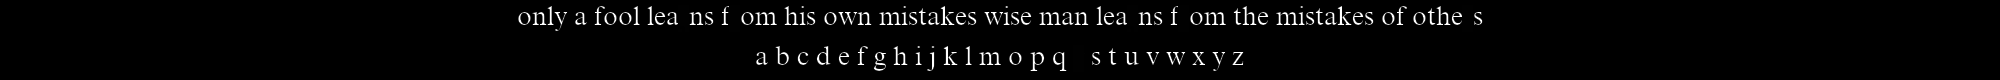
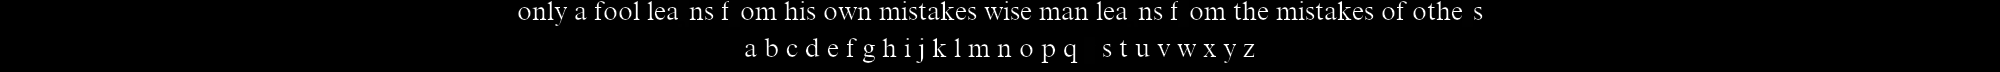
double f problem

Changed region(s): [[0.248, 0.0833, 0.744, 0.3333], [0.372, 0.5278, 0.651, 0.8889], [0.31, 0.0278, 0.341, 0.0556]]

diff --git a/ocr.py b/ocr.py
@@ -72,72 +72,84 @@ def detect_space(locations):
         if xses[i+1] - xses[i] - pattern_size[0] > 0:
             locations.append((' ', xses[i+1]-pattern_size[0], 0, 1))
 
-locations = []
+def ocr(ocr_filename, inv):
 
-whole_in_grey = np.array(to_grayscale(image=Image.open(os.path.join("images/otto.png")), inv=True))
+    locations = []
 
-alphabet = np.array(to_grayscale(image=Image.open(os.path.join("alphabet_27.png")), inv=True))
+    whole_in_grey = np.array(to_grayscale(image=Image.open(os.path.join(ocr_filename)), inv=inv))
 
-combined_image = cv2.vconcat([whole_in_grey, alphabet])
+    alphabet = np.array(to_grayscale(image=Image.open(os.path.join("alphabet_27.png")), inv=True))
 
-cv2.imwrite("overlayed_image.png", combined_image)
+    combined_image = cv2.vconcat([whole_in_grey, alphabet])
 
-alphabet_best = ['r', 'a', 'b', 'd', 'e', 'f', 'g', 'k', 'p', 'q', 's', 't', 'w', 'x', 'y', 'z', 'c', 'v', 'h', 'l', 'm', 'n', 'u', 'o', 'j', 'i']
+    cv2.imwrite("overlayed_image.png", combined_image)
 
-for char in alphabet_best:
+    alphabet_best = ['r', 'a', 'b', 'd', 'e', 'f', 'g', 'k', 'p', 'q', 's', 't', 'w', 'x', 'y', 'z', 'c', 'v', 'h', 'l', 'm', 'n', 'u', 'o', 'j', 'i']
 
-    whole = Image.open(os.path.join("overlayed_image.png"))
+    for char in alphabet_best:
 
-    filename = "font/" + char + ".png"
+        whole = Image.open(os.path.join("overlayed_image.png"))
 
-    pattern = to_grayscale(image=Image.open(os.path.join(filename)), inv=True)
+        filename = "font/" + char + ".png"
 
-    if char == 'j':
-        a=1
+        pattern = to_grayscale(image=Image.open(os.path.join(filename)), inv=True)
 
-    if char == 'f':
-        highlight_pattern(np_image_array=np.asarray(whole),
-                          corr=correlation(whole_image=to_grayscale(whole), searched_image=pattern), certainty=0.92,
-                          highlight_size=(8, 8), pattern_name=char, locations=locations)
-    elif char == 's':
-        highlight_pattern(np_image_array=np.asarray(whole),
-                          corr=correlation(whole_image=to_grayscale(whole), searched_image=pattern), certainty=0.87,
-                          highlight_size=(8, 8), pattern_name=char, locations=locations)
-    elif char == 'i':
-        highlight_pattern(np_image_array=np.asarray(whole),
-                          corr=correlation(whole_image=to_grayscale(whole), searched_image=pattern), certainty=0.88,
-                          highlight_size=(8, 8), pattern_name=char, locations=locations)
-    elif char == 'm':
-        highlight_pattern(np_image_array=np.asarray(whole),
-                          corr=correlation(whole_image=to_grayscale(whole), searched_image=pattern), certainty=0.95,
-                          highlight_size=(8, 8), pattern_name=char, locations=locations)
-    elif char == 'v':
-        highlight_pattern(np_image_array=np.asarray(whole),
-                          corr=correlation(whole_image=to_grayscale(whole), searched_image=pattern), certainty=0.89,
-                          highlight_size=(8, 8), pattern_name=char, locations=locations)
-    elif char == 'y':
-        highlight_pattern(np_image_array=np.asarray(whole),
-                          corr=correlation(whole_image=to_grayscale(whole), searched_image=pattern), certainty=0.90,
-                          highlight_size=(8, 8), pattern_name=char, locations=locations)
-    else:
-        highlight_pattern(np_image_array=np.asarray(whole),
-                          corr=correlation(whole_image=to_grayscale(whole), searched_image=pattern), certainty=0.93,
-                          highlight_size=(8, 8), pattern_name=char, locations=locations)
+        if char == 'g' or char == 'f':
+            a = 1
 
-locations.sort(key=lambda x: x[1])
+        if char == 'f':
+            highlight_pattern(np_image_array=np.asarray(whole),
+                              corr=correlation(whole_image=to_grayscale(whole), searched_image=pattern), certainty=0.92,
+                              highlight_size=(8, 8), pattern_name=char, locations=locations)
+        elif char == 'l':
+            highlight_pattern(np_image_array=np.asarray(whole),
+                              corr=correlation(whole_image=to_grayscale(whole), searched_image=pattern), certainty=0.90,
+                              highlight_size=(8, 8), pattern_name=char, locations=locations)
+        elif char == 'i':
+            highlight_pattern(np_image_array=np.asarray(whole),
+                              corr=correlation(whole_image=to_grayscale(whole), searched_image=pattern), certainty=0.95,
+                              highlight_size=(8, 8), pattern_name=char, locations=locations)
+        elif char == 't':
+            highlight_pattern(np_image_array=np.asarray(whole),
+                              corr=correlation(whole_image=to_grayscale(whole), searched_image=pattern), certainty=0.95,
+                              highlight_size=(8, 8), pattern_name=char, locations=locations)
+        elif char == 's':
+            highlight_pattern(np_image_array=np.asarray(whole),
+                              corr=correlation(whole_image=to_grayscale(whole), searched_image=pattern), certainty=0.87,
+                              highlight_size=(8, 8), pattern_name=char, locations=locations)
+        elif char == 'm':
+            highlight_pattern(np_image_array=np.asarray(whole),
+                              corr=correlation(whole_image=to_grayscale(whole), searched_image=pattern), certainty=0.95,
+                              highlight_size=(8, 8), pattern_name=char, locations=locations)
+        elif char == 'v':
+            highlight_pattern(np_image_array=np.asarray(whole),
+                              corr=correlation(whole_image=to_grayscale(whole), searched_image=pattern), certainty=0.89,
+                              highlight_size=(8, 8), pattern_name=char, locations=locations)
+        elif char == 'y':
+            highlight_pattern(np_image_array=np.asarray(whole),
+                              corr=correlation(whole_image=to_grayscale(whole), searched_image=pattern), certainty=0.90,
+                              highlight_size=(8, 8), pattern_name=char, locations=locations)
+        else:
+            highlight_pattern(np_image_array=np.asarray(whole),
+                              corr=correlation(whole_image=to_grayscale(whole), searched_image=pattern), certainty=0.93,
+                              highlight_size=(8, 8), pattern_name=char, locations=locations)
 
-# Usuwa litery wykryte z doklejonego alfabetu
-for tup in locations[:]:
-    _, _, y, _ = tup
-    if y > 40:
-        locations.remove(tup)
+    locations.sort(key=lambda x: x[1])
 
-# Wykrywa i dokleja spacje
-detect_space(locations)
-locations.sort(key=lambda x: x[1])
+    # Usuwa litery wykryte z doklejonego alfabetu
+    for tup in locations[:]:
+        _, _, y, _ = tup
+        if y > 40:
+            locations.remove(tup)
 
-# Printuje napis końcowy
-string = ""
-for name, _, _, _ in locations:
-    string += name
-print(string)
+    # Wykrywa i dokleja spacje
+    detect_space(locations)
+    locations.sort(key=lambda x: x[1])
+
+    # Printuje napis końcowy
+    string = ""
+    for name, _, _, _ in locations:
+        string += name
+    print(string)
+
+# ocr("images/edison.png", inv=True)

diff --git a/sandbox.py b/sandbox.py
@@ -1,0 +1,68 @@
+from tabnanny import check
+
+import cv2
+import os
+from PIL import Image, ImageOps
+import numpy as np
+
+import ocr
+
+def to_grayscale(image, inv=False):
+    if image.mode != 'L':  # 'L' stands for grayscale
+        image = image.convert('L')
+    if inv:
+        image = ImageOps.invert(image)
+    return image
+
+def check_if_line_starts(np_array_image):
+    if np_array_image is None:
+        return None
+    for i in range(np_array_image.shape[0]):
+        for j in range(np_array_image.shape[1]):
+            if np_array_image[i][j] > 0:
+                return i - 1
+
+def chop_off_the_line(np_array_image):
+    first_black_line = check_if_line_starts(np_array_image)
+    if first_black_line is None:
+        return None, None
+    return np_array_image[first_black_line:first_black_line + 32], np_array_image[first_black_line + 32:np_array_image.shape[0]]
+
+lines = 0
+
+def chop_all_lines(np_array_image, lines):
+    i = 0
+    if check_if_line_starts(np_array_image):
+        chopped_line, rest_of_image = chop_off_the_line(np_array_image)
+        cv2.imwrite("chopped0.png", chopped_line)
+        cv2.imwrite("rest.png", rest_of_image)
+        i += 1
+    else:
+        print("This is a blank")
+        return
+    while check_if_line_starts(rest_of_image) is not None:
+        chopped_line, rest_of_image = chop_off_the_line(rest_of_image)
+
+        if chopped_line is not None and chopped_line.size > 0:
+            cv2.imwrite(f"chopped{i}.png", chopped_line)
+
+        if rest_of_image is not None and rest_of_image.size > 0:
+            cv2.imwrite("rest.png", rest_of_image)
+
+        i += 1
+
+    lines = i
+
+    return lines
+
+image = Image.open(os.path.join("images/otto.png"))
+
+# chopped_line, rest_of_image = chop_off_the_line(np.asarray(to_grayscale(image, inv=True)))
+#
+# cv2.imwrite("chopped.png", chopped_line)
+# cv2.imwrite("rest.png", rest_of_image)
+
+lines = chop_all_lines(np.asarray(to_grayscale(image, inv=True)), lines)
+
+for i in range(lines):
+    ocr.ocr("chopped" + str(i) + ".png", inv=False)

diff --git a/README.md b/README.md
@@ -4,4 +4,3 @@
 - Wielkość czcionki: 27
 - Szerokość obrazu 2000
 - Automatyczne doklejanie alfabetu od spodu do czytanej linijki
-- W planach: Może wczytywać obrazy wielolinijkowe, ale i tak tnie je na pojedyńcze linijki.
